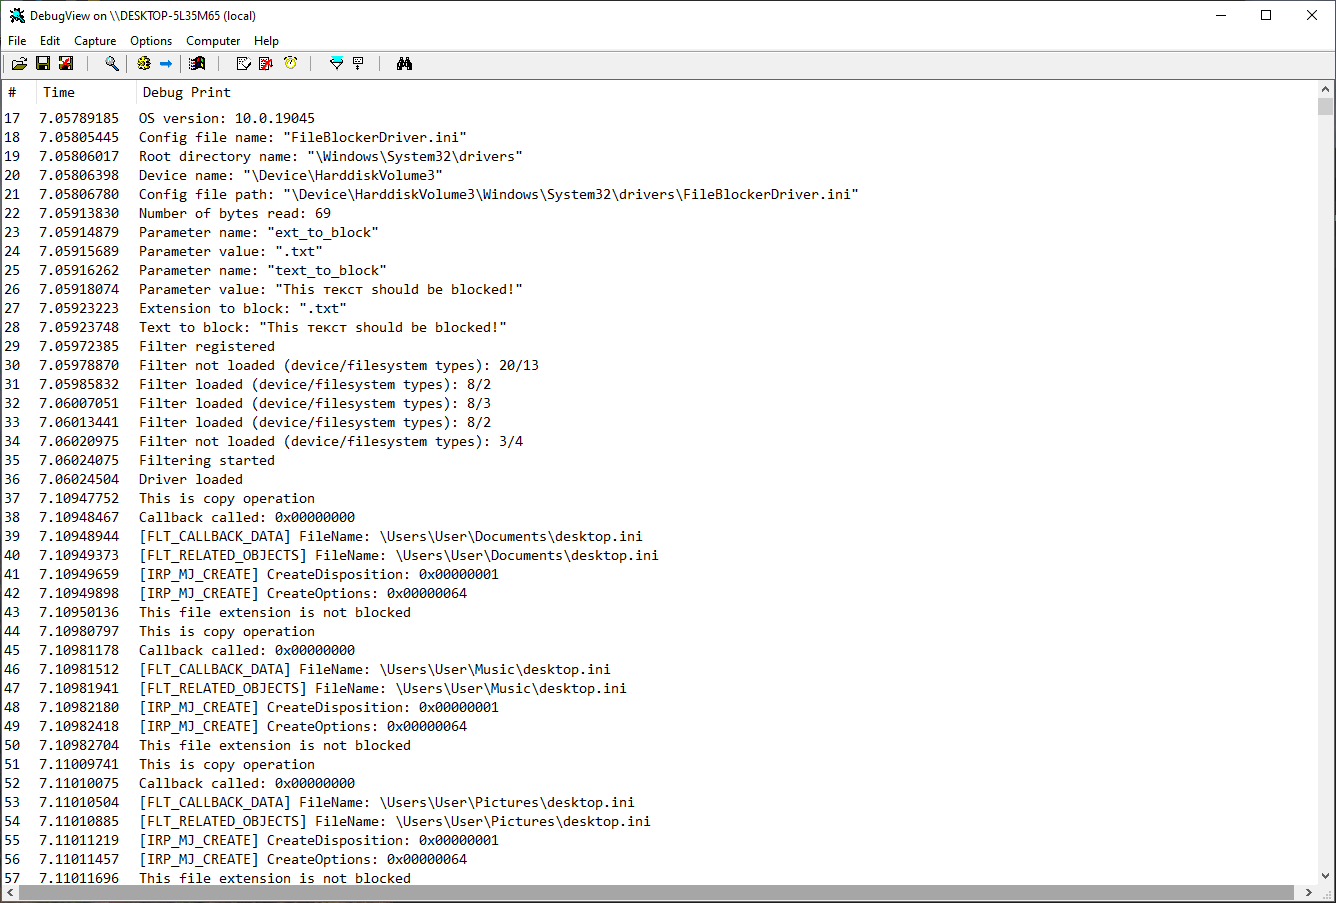
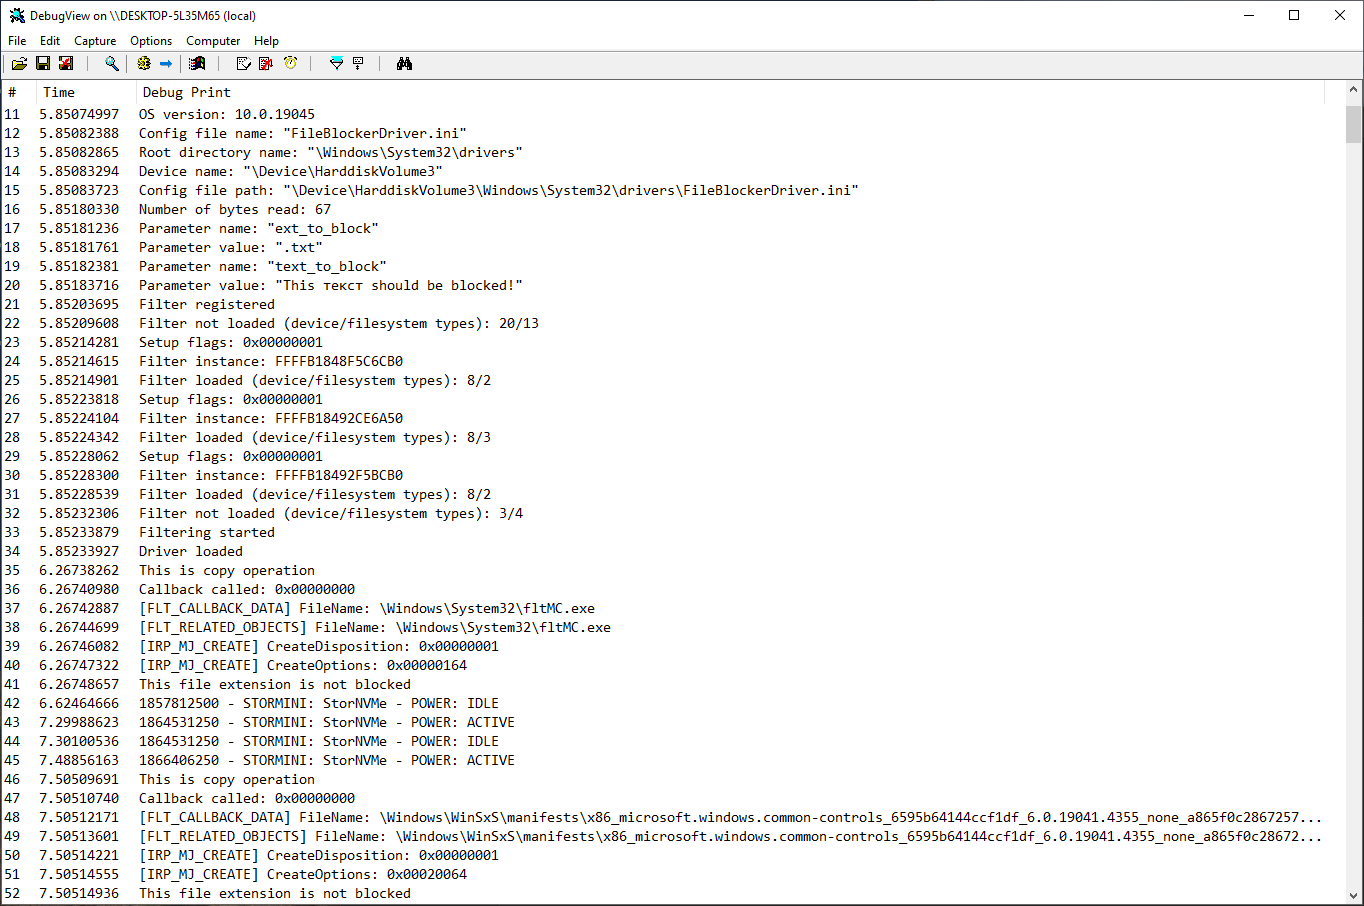
Мелкие правки

Changed region(s): [[0.0, 0.0, 0.982, 1.0], [0.982, 0.093, 1.0, 0.155]]

diff --git a/FileBlockerDriver/driver.c b/FileBlockerDriver/driver.c
@@ -5,42 +5,51 @@
 #include "tools.h"
 
 #define RX_BUFFER_SIZE    1024U
-#define MAX_FLT_INSTANCES   32U
+#define MAX_FLT_INSTANCES   64U
 
 static UNICODE_STRING SERVER_PORT_NAME = RTL_CONSTANT_STRING(L"\\FileBlockerFilterPort");
 
 typedef struct _FILE_BLOCKER_PROPERTIES
 {
+    PKTHREAD thread;
+    PFAST_MUTEX mutex;
     PFLT_FILTER filter;
+    USHORT num_flt_instances;
+    PFLT_INSTANCE flt_instances[MAX_FLT_INSTANCES];
     PFLT_PORT server_port;
     PFLT_PORT client_port;
-    USHORT num_instances;
-    PFLT_INSTANCE instances[MAX_FLT_INSTANCES];
-    PFAST_MUTEX mutex;
 } FILE_BLOCKER_PROPERTIES, *PFILE_BLOCKER_PROPERTIES;
 
 static FILE_BLOCKER_PROPERTIES fb_props;
 
 DRIVER_INITIALIZE driverEntry;
-static VOID driverUnload(_In_ PDRIVER_OBJECT driver_object);
-
-static NTSTATUS filterUnloadCallback(_In_ FLT_FILTER_UNLOAD_FLAGS flags);
-static NTSTATUS filterLoadCallback(_In_ PCFLT_RELATED_OBJECTS related_objects,
-                                   _In_ FLT_INSTANCE_SETUP_FLAGS flags,
-                                   _In_ DEVICE_TYPE  volume_device_yype,
-                                   _In_ FLT_FILESYSTEM_TYPE  volume_filesystem_type);
-
-static FLT_PREOP_CALLBACK_STATUS preOperationCallback(_Inout_ PFLT_CALLBACK_DATA data,
-                                                      _In_ PCFLT_RELATED_OBJECTS related_objects,
-                                                      _Out_ PVOID* completion_context);
+DRIVER_UNLOAD  driverUnload;
 
 static NTSTATUS
-messageCallback(_In_ PVOID connection_cookie,
-                _In_reads_bytes_opt_(input_buffer_size) PVOID input_buffer,
-                _In_ ULONG input_buffer_size,
-                _Out_writes_bytes_to_opt_(output_buffer_size, *output_buffer_length) PVOID output_buffer,
-                _In_ ULONG output_buffer_size,
-                _Out_ PULONG output_buffer_length)
+FLTAPI filterUnloadCallback(_In_ FLT_FILTER_UNLOAD_FLAGS flags);
+
+static NTSTATUS
+FLTAPI instanceSetupCallback(_In_ PCFLT_RELATED_OBJECTS related_objects,
+                             _In_ FLT_INSTANCE_SETUP_FLAGS setup_flags,
+                             _In_ DEVICE_TYPE  device_yype,
+                             _In_ FLT_FILESYSTEM_TYPE  filesystem_type);
+
+static NTSTATUS
+FLTAPI instanceQueryTeardownCallback(_In_ PCFLT_RELATED_OBJECTS related_objects,
+                                     _In_ FLT_INSTANCE_QUERY_TEARDOWN_FLAGS teardown_flags);
+
+static FLT_PREOP_CALLBACK_STATUS
+FLTAPI preOperationCallback(_Inout_ PFLT_CALLBACK_DATA data,
+                            _In_ PCFLT_RELATED_OBJECTS related_objects,
+                            _Outptr_result_maybenull_ PVOID* completion_context);
+
+static NTSTATUS
+FLTAPI messageCallback(_In_opt_ PVOID connection_cookie,
+                       _In_reads_bytes_opt_(input_buffer_size) PVOID input_buffer,
+                       _In_ ULONG input_buffer_size,
+                       _Out_writes_bytes_to_opt_(output_buffer_size, *output_buffer_length) PVOID output_buffer,
+                       _In_ ULONG output_buffer_size,
+                       _Out_ PULONG output_buffer_length)
 {
     UNREFERENCED_PARAMETER(connection_cookie);
     UNREFERENCED_PARAMETER(output_buffer);
@@ -81,25 +90,25 @@ messageCallback(_In_ PVOID connection_cookie,
     };
     
     KdPrint(("Message: %wZ\n", &message));
-
     return STATUS_SUCCESS;
 }
 
 static NTSTATUS
-connectCallback(_In_ PFLT_PORT client_port,
-                _In_ PVOID server_port_cookie,
-                _In_reads_bytes_(size_of_context) PVOID connection_context,
-                _In_ ULONG size_of_context,
-                _Flt_ConnectionCookie_Outptr_ PVOID* connection_cookie)
+FLTAPI connectCallback(_In_ PFLT_PORT client_port,
+                       _In_opt_ PVOID server_port_cookie,
+                       _In_reads_bytes_opt_(size_of_context) PVOID connection_context,
+                       _In_ ULONG size_of_context,
+                       _Outptr_result_maybenull_ PVOID* connection_cookie)
 {
     UNREFERENCED_PARAMETER(server_port_cookie);
     UNREFERENCED_PARAMETER(connection_context);
     UNREFERENCED_PARAMETER(size_of_context);
-    UNREFERENCED_PARAMETER(connection_cookie);
 
     PAGED_CODE();
 
     KdPrint(("connectCallback() called\n"));
+
+    *connection_cookie = NULL;
 
     FLT_ASSERT(not fb_props.client_port);
     fb_props.client_port = client_port;
@@ -108,7 +117,7 @@ connectCallback(_In_ PFLT_PORT client_port,
 }
 
 static VOID
-disconnectCallback(_In_opt_ PVOID connection_cookie)
+FLTAPI disconnectCallback(_In_opt_ PVOID connection_cookie)
 {
     UNREFERENCED_PARAMETER(connection_cookie);
 
@@ -145,7 +154,13 @@ static CONST FLT_REGISTRATION filter_registration = {
     contexts,
     callbacks,
     filterUnloadCallback,
-    filterLoadCallback,
+    instanceSetupCallback,
+    instanceQueryTeardownCallback,
+    NULL,
+    NULL,
+    NULL,
+    NULL,
+    NULL,
     NULL,
     NULL,
     NULL
@@ -160,10 +175,11 @@ NTSTATUS driverEntry(_In_ PDRIVER_OBJECT driver_object,
     if (not checkOsVersion())
     {
         KdPrint(("Failed to check OS version\n"));
-        return STATUS_DRIVER_INTERNAL_ERROR;
+        return STATUS_INCOMPATIBLE_DRIVER_BLOCKED;
     }
 
-    //
+    fb_props.thread = KeGetCurrentThread();
+
     fb_props.mutex = ExAllocatePool2(POOL_FLAG_NON_PAGED,
                                      sizeof(FAST_MUTEX),
                                      '1gaT');
@@ -174,7 +190,6 @@ NTSTATUS driverEntry(_In_ PDRIVER_OBJECT driver_object,
     }
 
     ExInitializeFastMutex(fb_props.mutex);
-    //
 
     if (not initializeFileBlocker(driver_object, registry_key_path))
     {
@@ -254,13 +269,13 @@ NTSTATUS driverEntry(_In_ PDRIVER_OBJECT driver_object,
         return status;
     }
 
-    KdPrint(("Filtering started\n"));
-    KdPrint(("Driver loaded\n"));
+    KdPrint(("Filtering started\n" \
+             "Driver loaded\n"));
     return status;
 }
 
 _Use_decl_annotations_
-static VOID driverUnload(_In_ PDRIVER_OBJECT driver_object)
+VOID driverUnload(_In_ PDRIVER_OBJECT driver_object)
 {
     UNREFERENCED_PARAMETER(driver_object);
 
@@ -274,14 +289,17 @@ static VOID driverUnload(_In_ PDRIVER_OBJECT driver_object)
         KdPrint(("Filter unregistered\n"));
     }
 
-    ExFreePool(fb_props.mutex);
+    if (fb_props.mutex)
+        ExFreePool(fb_props.mutex);
+
     uninitializeFileBlocker();
 
     KdPrint(("Driver unloaded\n"));
 }
 
 _Use_decl_annotations_
-static NTSTATUS filterUnloadCallback(_In_ FLT_FILTER_UNLOAD_FLAGS unload_flags)
+static NTSTATUS
+FLTAPI filterUnloadCallback(_In_ FLT_FILTER_UNLOAD_FLAGS unload_flags)
 {
     UNREFERENCED_PARAMETER(unload_flags);
 
@@ -292,21 +310,28 @@ static NTSTATUS filterUnloadCallback(_In_ FLT_FILTER_UNLOAD_FLAGS unload_flags)
 }
 
 _Use_decl_annotations_
-static NTSTATUS filterLoadCallback(_In_ PCFLT_RELATED_OBJECTS related_objects,
-                                   _In_ FLT_INSTANCE_SETUP_FLAGS setup_flags,
-                                   _In_ DEVICE_TYPE device_type,
-                                   _In_ FLT_FILESYSTEM_TYPE filesystem_type)
+static NTSTATUS
+FLTAPI instanceSetupCallback(_In_ PCFLT_RELATED_OBJECTS related_objects,
+                             _In_ FLT_INSTANCE_SETUP_FLAGS setup_flags,
+                             _In_ DEVICE_TYPE device_type,
+                             _In_ FLT_FILESYSTEM_TYPE filesystem_type)
 {
-    UNREFERENCED_PARAMETER(setup_flags);
-#ifdef NDEBUG
-    UNREFERENCED_PARAMETER(filesystem_type);
-#endif
-
     PAGED_CODE();
 
     FLT_ASSERT(fb_props.filter == related_objects->Filter);
 
-    if (device_type not_eq FILE_DEVICE_DISK_FILE_SYSTEM)
+    if ((ULONG_PTR)fb_props.thread != ExGetCurrentResourceThread())
+        KdPrint(("WARNING: Multithreading detected!\n" \
+                 "Main thread ID: %llu\n" \
+                 "This thread ID: %llu\n",
+                 (ULONG_PTR)fb_props.thread,
+                 ExGetCurrentResourceThread()));
+
+    KdPrint(("Setup flags: 0x%08X\n", setup_flags));
+
+    if (device_type not_eq FILE_DEVICE_DISK_FILE_SYSTEM or
+        (filesystem_type not_eq FLT_FSTYPE_NTFS and
+         filesystem_type not_eq FLT_FSTYPE_FAT))
     {
         KdPrint(("Filter not loaded (device/filesystem types): %lu/%i\n",
                  device_type, filesystem_type));
@@ -315,10 +340,21 @@ static NTSTATUS filterLoadCallback(_In_ PCFLT_RELATED_OBJECTS related_objects,
 
     KdPrint(("Filter instance: %p\n", related_objects->Instance));
     
+    // Может вызываться и вызывается из
+    // разных потоков (картинку выложу)
     ExAcquireFastMutex(fb_props.mutex);
 
-    FLT_ASSERT(fb_props.num_instances < MAX_FLT_INSTANCES);
-    fb_props.instances[fb_props.num_instances++] = related_objects->Instance;
+    FLT_ASSERT(fb_props.num_flt_instances < MAX_FLT_INSTANCES);
+
+    USHORT index = 0;
+    for (; index < fb_props.num_flt_instances; ++index)
+        if (fb_props.flt_instances[index] == related_objects->Instance)
+            break;
+
+    if (index == fb_props.num_flt_instances)
+        fb_props.flt_instances[fb_props.num_flt_instances++] = related_objects->Instance;
+    else
+        KdPrint(("WARNING: Instance already exists!\n"));
     
     ExReleaseFastMutex(fb_props.mutex);
 
@@ -328,9 +364,21 @@ static NTSTATUS filterLoadCallback(_In_ PCFLT_RELATED_OBJECTS related_objects,
 }
 
 _Use_decl_annotations_
-static FLT_PREOP_CALLBACK_STATUS preOperationCallback(_Inout_ PFLT_CALLBACK_DATA callback_data,
-                                                      _In_ PCFLT_RELATED_OBJECTS related_objects,
-                                                      _Out_ PVOID* completion_context)
+static NTSTATUS
+FLTAPI instanceQueryTeardownCallback(_In_ PCFLT_RELATED_OBJECTS related_objects,
+                                     _In_ FLT_INSTANCE_QUERY_TEARDOWN_FLAGS teardown_flags)
+{
+    UNREFERENCED_PARAMETER(related_objects);
+    UNREFERENCED_PARAMETER(teardown_flags);
+
+    return STATUS_SUCCESS;
+}
+
+_Use_decl_annotations_
+static FLT_PREOP_CALLBACK_STATUS
+FLTAPI preOperationCallback(_Inout_ PFLT_CALLBACK_DATA callback_data,
+                            _In_ PCFLT_RELATED_OBJECTS related_objects,
+                            _Outptr_result_maybenull_ PVOID* completion_context)
 {
     PAGED_CODE();
 
@@ -361,8 +409,6 @@ static FLT_PREOP_CALLBACK_STATUS preOperationCallback(_Inout_ PFLT_CALLBACK_DATA
         return FLT_PREOP_SUCCESS_NO_CALLBACK;
     }
 #endif
-
-    FLT_ASSERT(io_parameter_block->TargetFileObject == related_objects->FileObject);
 
     PFLT_PARAMETERS parameters = &io_parameter_block->Parameters;
     if (io_parameter_block->MajorFunction == IRP_MJ_SET_INFORMATION)
@@ -468,6 +514,10 @@ static FLT_PREOP_CALLBACK_STATUS preOperationCallback(_Inout_ PFLT_CALLBACK_DATA
     if (related_objects->FileObject)
         KdPrint(("[FLT_RELATED_OBJECTS] FileName: %wZ\n",
                  &related_objects->FileObject->FileName));
+
+    if (callback_data->Iopb->TargetFileObject && related_objects->FileObject)
+        FLT_ASSERTMSG("OBJECTS MISMATCH", callback_data->Iopb->TargetFileObject ==
+                                          related_objects->FileObject);
     
     if (callback_data->Iopb->MajorFunction == IRP_MJ_CREATE)
     {
